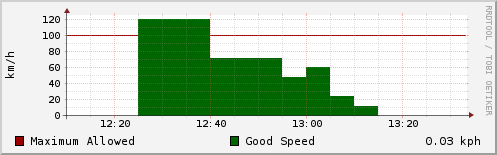
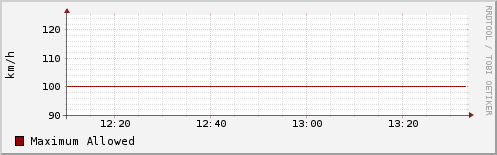
tempsave

diff --git a/powerdogGraph.py b/powerdogGraph.py
@@ -1,3 +1,4 @@
+#coding=utf-8
 from pyrrd.rrd import RRD, RRA, DS
 from pyrrd.graph import DEF, CDEF, VDEF
 from pyrrd.graph import LINE, AREA, GPRINT
@@ -19,21 +20,38 @@ from pyrrd.graph import ColorAttributes, Graph
 #Steps: Defines how many Primary Data Points (PDPs) are consolidated using the Consolidation Function (CF) to create the stored value.
 #Rows: Defines the number of Rows (records) stored in this RRA.
 
+#CDP: Consolidated Data Point
+
 #DEF: DEF:var_name_1=some.rrd:ds_name:CF // DEF:inbytes=mrtg.rrd:in:AVERAGE
 #cdef: CDEF:var_name_2=RPN_expression // CDEF:inBITS=inBYTES,8,*
+
+#rra: 
+#rras
+#vname: 
 
 exampleNum = 1
 filename = 'example%s.rrd' % exampleNum
 graphfile = 'example%s.png' % exampleNum
 
-# Let's create and RRD file and dump some data in it
-dss = []
-rras = []
-ds1 = DS(dsName='speed', dsType='COUNTER', heartbeat=600)
+# Let's create and RRD file and dump some data in it     https://apfelboymchen.net/gnu/rrd/create/
+dss = []  #Data Sources
+rras = [] #
+ds1 = DS(dsName='kW', dsType='GAUGE', heartbeat=600)    # https://www.heise.de/make/artikel/Kurvenzeichner-2714517.html
+#ds2 = DS(dsName='kWh', dsType='COUNTER', heartbeat=600)
 dss.append(ds1)
-rra1 = RRA(cf='AVERAGE', xff=0.5, steps=1, rows=24)
-rra2 = RRA(cf='AVERAGE', xff=0.5, steps=6, rows=10)
-rras.extend([rra1, rra2])
+#dss.append(ds2)
+rra1 = RRA(cf='AVERAGE', xff=0.5, steps=1, rows=144)      # PDP, alle 10 minuten einen Datenpunkt, für einen Tag                     Anleitung: https://oss.oetiker.ch/rrdtool/doc/rrdcreate.en.html
+rra2 = RRA(cf='AVERAGE', xff=0.5, steps=6, rows=24)       # CDP, immer 6 Punkte (1h) zu einem zusammenfassen, das 24h lang
+rra3 = RRA(cf='AVERAGE', xff=0.5, steps=24, rows=30)      # CDP, immer 24 Punkte (1 Tag) zu einem zusammenfassen, das 30 Tage lang
+rra4 = RRA(cf='AVERAGE', xff=0.5, steps=30, rows=12)      # CDP, immer 30 Punkte (1 Monat) zu einem zusammenfassen, das 12 Monate lang
+rra5 = RRA(cf='AVERAGE', xff=0.5, steps=12, rows=100)     # CDP, immer 12 Punkte (1 yahr) zu einem zusammenfassen, das 100 Jahre lang
+
+rras.append(rra1)
+rras.append(rra2)
+rras.append(rra3)
+rras.append(rra4)
+rras.append(rra5)
+
 myRRD = RRD(filename, ds=dss, rra=rras, start=920804400)
 myRRD.create()
 myRRD.bufferValue('920805600', '12363')
@@ -52,20 +70,16 @@ myRRD.update()
 
 # Let's set up the objects that will be added to the graph
 def1 = DEF(rrdfile=myRRD.filename, vname='myspeed', dsName=ds1.name)
-cdef1 = CDEF(vname='kmh', rpn='%s,3600,*' % def1.vname)
-#cdef2 = CDEF(vname='fast', rpn='kmh,100,GT,kmh,0,IF')
-#cdef3 = CDEF(vname='good', rpn='kmh,100,GT,0,kmh,IF')
-vdef1 = VDEF(vname='mymax', rpn='%s,MAXIMUM' % def1.vname)
-#vdef2 = VDEF(vname='myavg', rpn='%s,AVERAGE' % def1.vname)
+#cdef1 = CDEF(vname='kmh', rpn='%s,3600,*' % def1.vname)
+#vdef1 = VDEF(vname='mymax', rpn='%s,MAXIMUM' % def1.vname)
 line1 = LINE(value=100, color='#990000', legend='Maximum Allowed')
-area1 = AREA(defObj=cdef1, color='#006600', legend='Good Speed')
-#area2 = AREA(defObj=cdef2, color='#CC6633', legend='Too Fast')
-#line2 = LINE(defObj=vdef2, color='#000099', legend='My Average', stack=True)
-gprint1 = GPRINT(vdef1, '%6.2lf kph')
+#area1 = AREA(defObj=cdef1, color='#006600', legend='Good Speed')
+#gprint1 = GPRINT(vdef1, '%6.2lf kph')
+#gprint1 = GPRINT(def1, '%6.2lf kph')
 
 # Now that we've got everything set up, let's make a graph
 g = Graph(graphfile, start=920805000, end=920810000, vertical_label='km/h')
-#g.data.extend([def1, cdef1, cdef2, cdef3, vdef1, vdef2, line1, area1, area2, line2, gprint1])
-g.data.extend([def1, cdef1,  vdef1,  line1, area1, gprint1])
+#g.data.extend([def1, cdef1,  vdef1,  line1, area1, gprint1])
+g.data.extend([def1,  line1 ])
 g.write()
 
